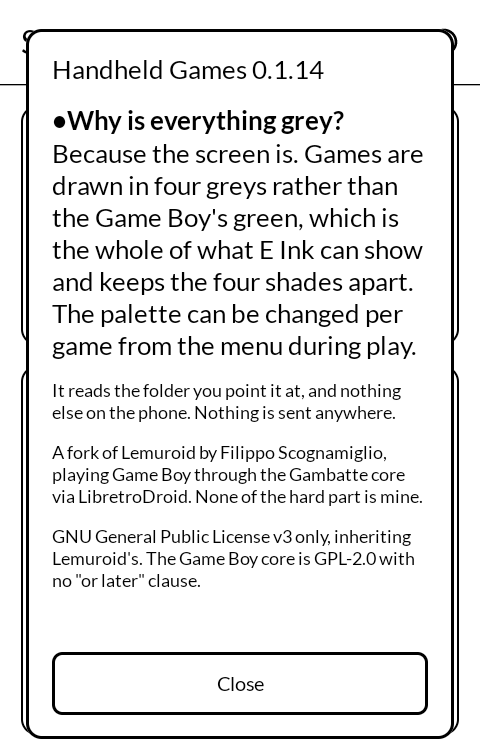
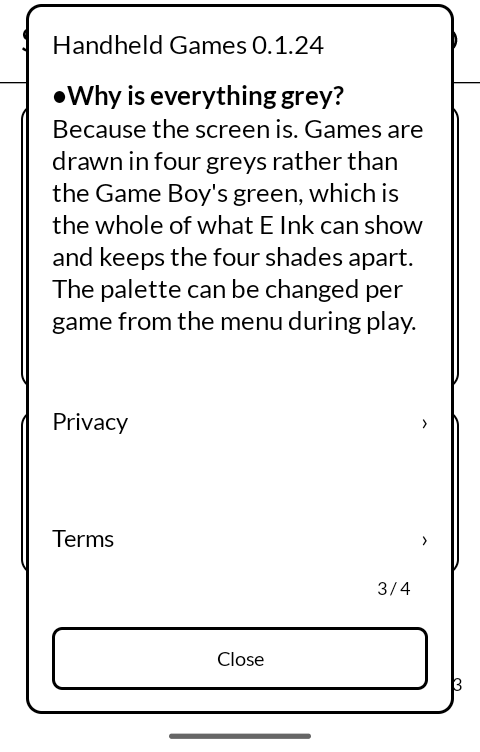
New screenshots

diff --git a/README.md b/README.md
@@ -8,8 +8,8 @@ can be on a quiet afternoon.
 
 | | |
 |---|---|
-| ![All the games](screenshots/1-games.png) | ![2048gb, playing](screenshots/2-playing.png) |
-| ![Settings](screenshots/3-settings.png) | ![About, and why everything is grey](screenshots/4-about.png) |
+| ![First start: choose a directory of Game Boy files](screenshots/1-setup.png) | ![Settings, with the page number in the corner](screenshots/2-settings.png) |
+| ![How to use it, in the About box](screenshots/3-help.png) | ![About: Privacy, Terms and Licences](screenshots/4-about.png) |
 
 Every game shown is freely licensed homebrew from the [Homebrew Hub](https://hh.gbdev.io).
 No commercial game appears in this repository, and none is bundled in the app.
